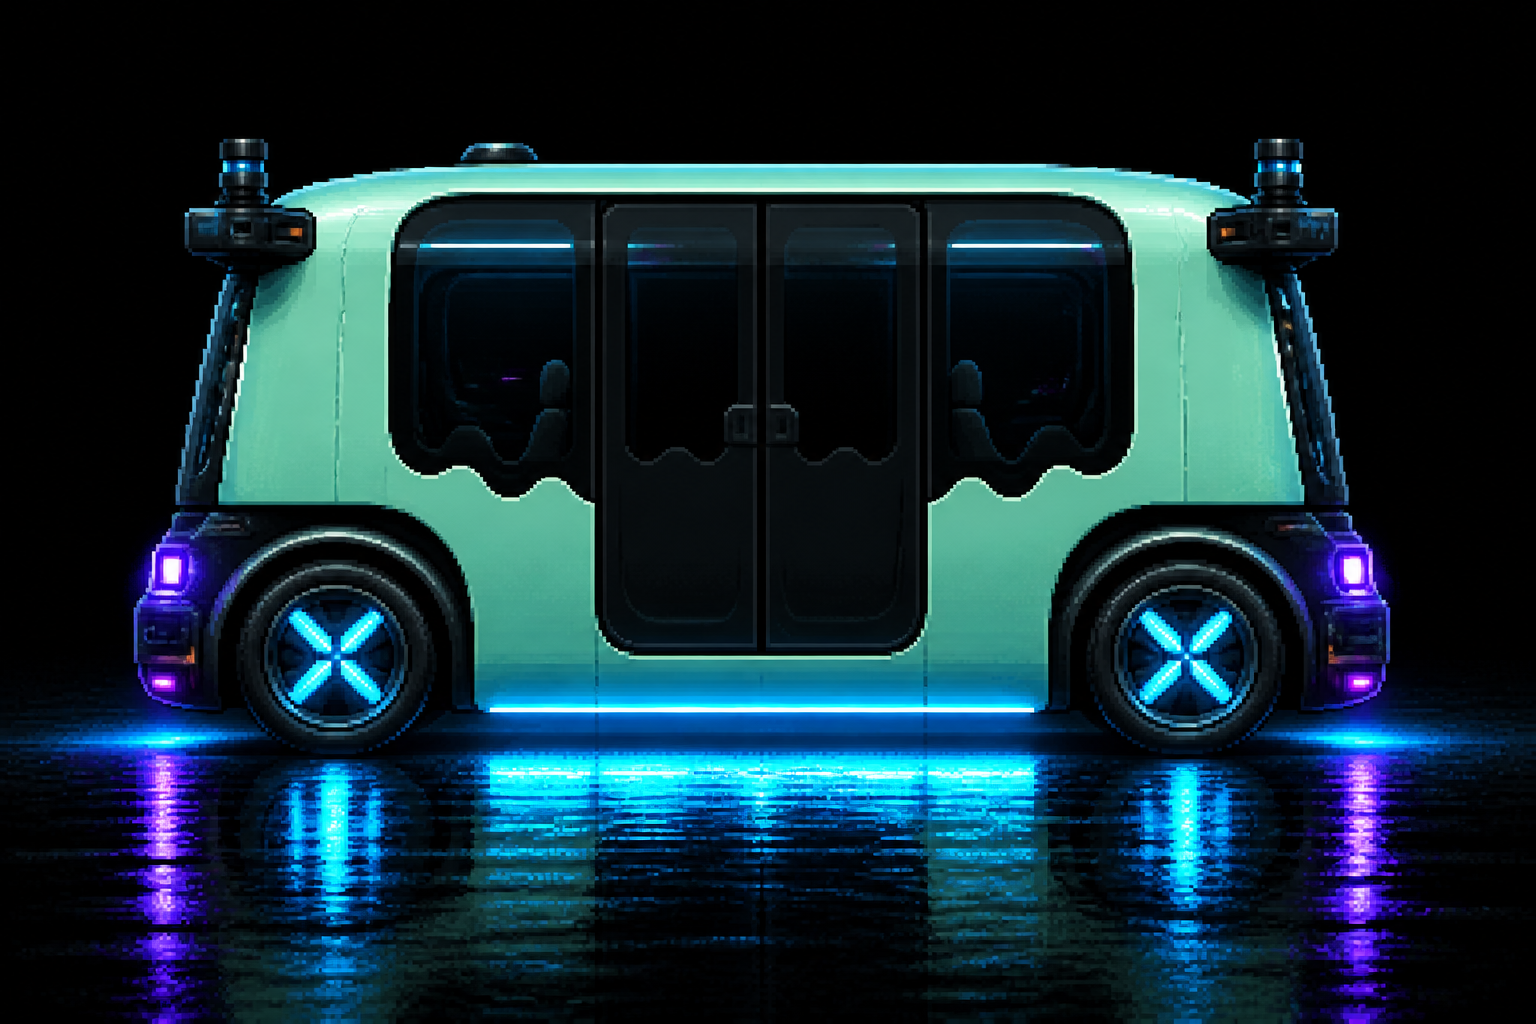
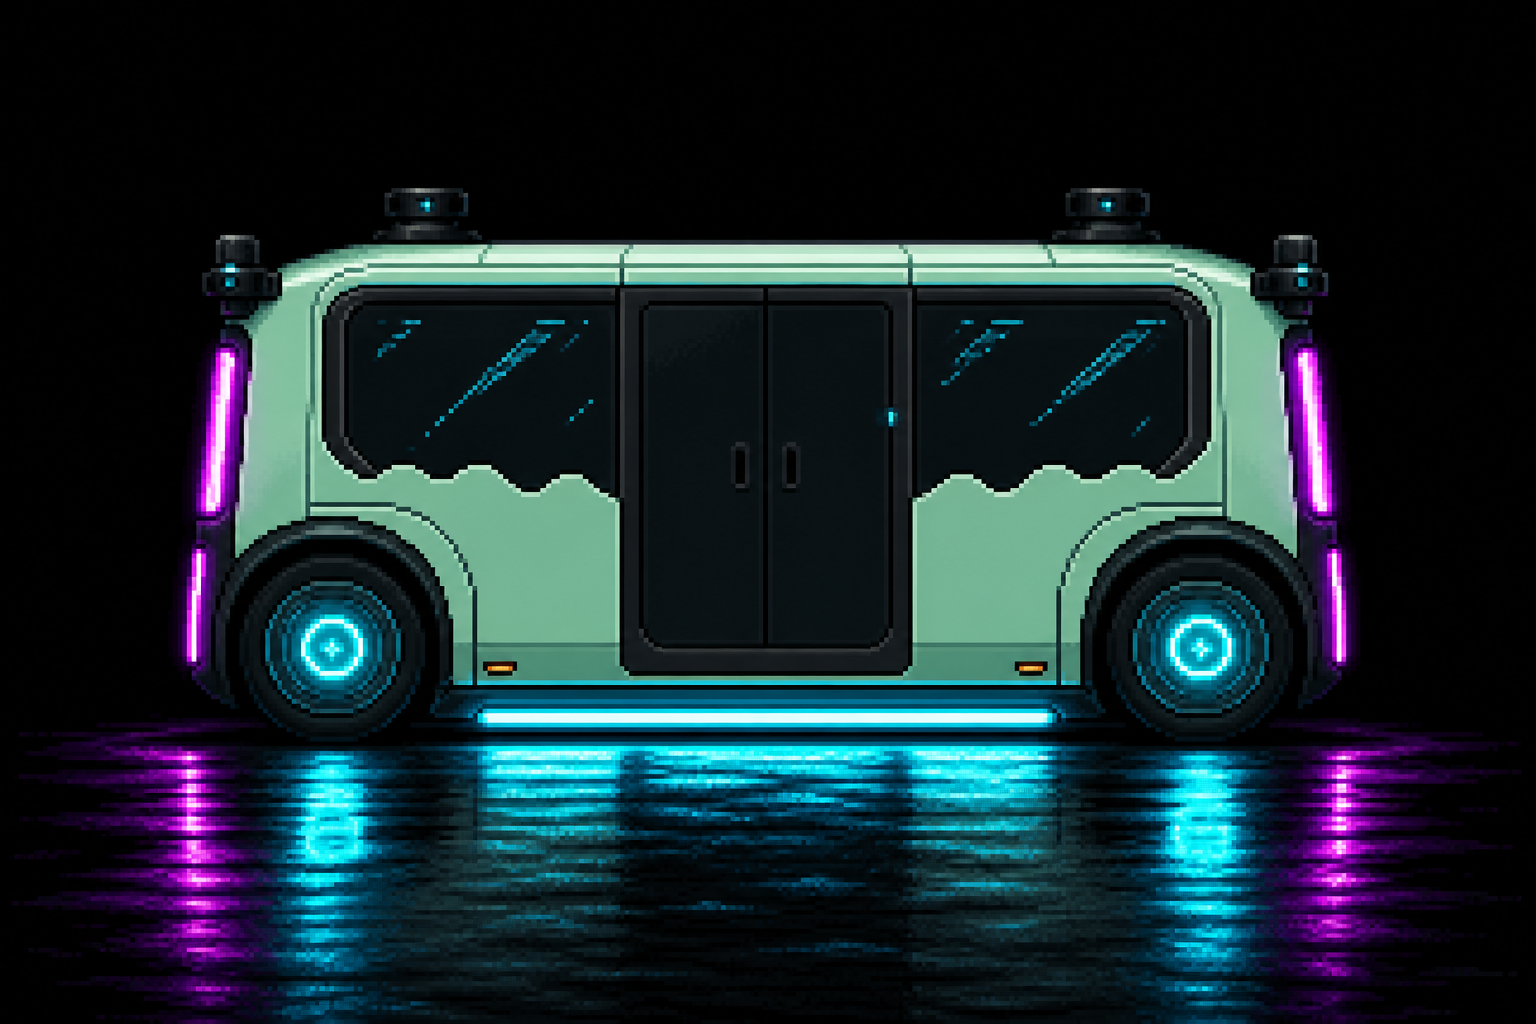
Tighten Zoox mint pixel plate toward neon reference
Sharper seafoam body, purple corner bars, cyan underglow pools, and
stronger wet-road glow so the carriage reads closer to the reference.

diff --git a/scripts/art/make_zoox_robotaxi.py b/scripts/art/make_zoox_robotaxi.py
@@ -1,6 +1,6 @@
 #!/usr/bin/env python3
 """
-Build high-quality Zoox robotaxi sprites from the painted reference plate.
+Build Zoox robotaxi sprites from the mint seafoam reference plate.
 
 Source: scripts/art/sources/zoox_robotaxi_ref.png
 Outputs: public/assets/zoox/zoox_{0,1,}.png + effects/zoox_underglow.png
@@ -37,12 +37,11 @@ def key_background(src: Image.Image) -> Image.Image:
         q.append((y, 0))
         q.append((y, w - 1))
 
-    thresh = 45
     while q:
         y, x = q.popleft()
         if y < 0 or y >= h or x < 0 or x >= w or visited[y, x]:
             continue
-        if lum[y, x] > thresh:
+        if lum[y, x] > 45:
             continue
         visited[y, x] = True
         q.append((y - 1, x))
@@ -59,12 +58,34 @@ def key_background(src: Image.Image) -> Image.Image:
     alpha[bg] = 0
     mask = (~bg).astype(np.uint8) * 255
     feather = np.array(
-        Image.fromarray(mask, "L").filter(ImageFilter.GaussianBlur(1.2)),
+        Image.fromarray(mask, "L").filter(ImageFilter.GaussianBlur(1.1)),
         dtype=np.float32,
     ) / 255.0
     alpha = np.minimum(alpha, feather * 255)
     arr[..., 3] = alpha.astype(np.uint8)
     return Image.fromarray(arr, "RGBA")
+
+
+def polish_colors(img: Image.Image) -> Image.Image:
+    """Push body toward mint seafoam; punch cyan / purple neon for the night road."""
+    arr = np.array(img).astype(np.float32)
+    r, g, b, a = arr[..., 0], arr[..., 1], arr[..., 2], arr[..., 3]
+
+    mint = (g > r + 8) & (g > b + 5) & (g > 70) & (g < 230) & (a > 180)
+    r = np.where(mint, r * 0.55 + 120 * 0.45, r)
+    g = np.where(mint, np.minimum(255, g * 0.55 + 220 * 0.45), g)
+    b = np.where(mint, b * 0.55 + 185 * 0.45, b)
+
+    cyan = (b > 140) & (g > 120) & (r < 120) & (a > 100)
+    g = np.where(cyan, np.minimum(255, g * 1.08), g)
+    b = np.where(cyan, np.minimum(255, b * 1.12), b)
+
+    purp = (r > 120) & (b > 140) & (g < r * 0.85) & (a > 100)
+    r = np.where(purp, np.minimum(255, r * 1.1), r)
+    b = np.where(purp, np.minimum(255, b * 1.08), b)
+
+    out = np.stack([r, g, b, a], axis=-1)
+    return Image.fromarray(np.clip(out, 0, 255).astype(np.uint8), "RGBA")
 
 
 def fit_car(img: Image.Image) -> Image.Image:
@@ -73,15 +94,16 @@ def fit_car(img: Image.Image) -> Image.Image:
         raise RuntimeError("empty sprite after keying")
     pad = 10
     x0, y0, x1, y1 = bbox
-    x0 = max(0, x0 - pad)
-    y0 = max(0, y0 - pad)
-    x1 = min(img.width, x1 + pad)
-    y1 = min(img.height, y1 + pad)
-    crop = img.crop((x0, y0, x1, y1))
+    crop = img.crop((
+        max(0, x0 - pad),
+        max(0, y0 - pad),
+        min(img.width, x1 + pad),
+        min(img.height, y1 + pad),
+    ))
     cw, ch = CANVAS
     scale = min((cw - 20) / crop.width, (ch - 16) / crop.height)
-    nw, nh = int(crop.width * scale), int(crop.height * scale)
-    return crop.resize((nw, nh), Image.Resampling.LANCZOS)
+    car = crop.resize((int(crop.width * scale), int(crop.height * scale)), Image.Resampling.LANCZOS)
+    return car.filter(ImageFilter.UnsharpMask(radius=1.0, percent=130, threshold=2))
 
 
 def compose(car: Image.Image, glow_boost: float = 1.0) -> Image.Image:
@@ -92,12 +114,14 @@ def compose(car: Image.Image, glow_boost: float = 1.0) -> Image.Image:
     cx = cw // 2
     cy = y + int(car.height * 0.86)
     glow = Image.new("RGBA", (cw, ch), (0, 0, 0, 0))
-    for rx, ry, col, blur in (
-        (145, 16, (0, 220, 255, int(50 * glow_boost)), 5),
-        (95, 9, (150, 245, 255, int(35 * glow_boost)), 2.5),
+    for rx, ry, col, blur, ox in (
+        (150, 16, (0, 230, 255, int(55 * glow_boost)), 5, 0),
+        (100, 9, (160, 250, 255, int(40 * glow_boost)), 2.5, 0),
+        (36, 12, (220, 70, 255, int(40 * glow_boost)), 3.5, -110),
+        (36, 12, (220, 70, 255, int(40 * glow_boost)), 3.5, 110),
     ):
         layer = Image.new("RGBA", (cw, ch), (0, 0, 0, 0))
-        ImageDraw.Draw(layer).ellipse([cx - rx, cy - ry, cx + rx, cy + ry], fill=col)
+        ImageDraw.Draw(layer).ellipse([cx - rx + ox, cy - ry, cx + rx + ox, cy + ry], fill=col)
         glow = Image.alpha_composite(glow, layer.filter(ImageFilter.GaussianBlur(blur)))
     out = Image.alpha_composite(out, glow)
     out.paste(car, (x, y), car)
@@ -107,8 +131,8 @@ def compose(car: Image.Image, glow_boost: float = 1.0) -> Image.Image:
 def make_underglow() -> Image.Image:
     ug = Image.new("RGBA", (240, 70), (0, 0, 0, 0))
     for rx, ry, col, blur in (
-        (110, 18, (0, 220, 255, 140), 7),
-        (70, 10, (160, 255, 255, 100), 3),
+        (110, 18, (0, 230, 255, 150), 7),
+        (70, 10, (170, 255, 255, 110), 3),
     ):
         layer = Image.new("RGBA", ug.size, (0, 0, 0, 0))
         ImageDraw.Draw(layer).ellipse([120 - rx, 28 - ry, 120 + rx, 28 + ry], fill=col)
@@ -119,11 +143,11 @@ def make_underglow() -> Image.Image:
 def main() -> None:
     if not SRC.exists():
         raise SystemExit(f"Missing source plate: {SRC}")
-    keyed = key_background(Image.open(SRC))
+    keyed = polish_colors(key_background(Image.open(SRC)))
     car = fit_car(keyed)
     frame0 = compose(car, 1.0)
-    car1 = ImageEnhance.Color(ImageEnhance.Brightness(car).enhance(1.04)).enhance(1.08)
-    frame1 = compose(car1, 1.18)
+    car1 = ImageEnhance.Color(ImageEnhance.Brightness(car).enhance(1.04)).enhance(1.1)
+    frame1 = compose(car1, 1.2)
 
     zoox_dir = OUT / "zoox"
     zoox_dir.mkdir(parents=True, exist_ok=True)
